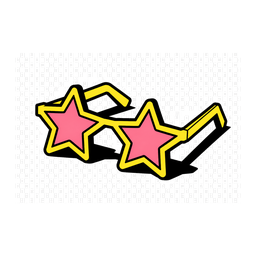
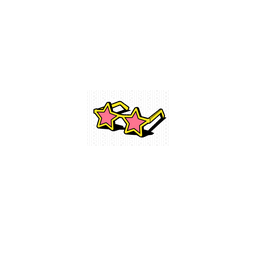
fix(schleimi): re-register Neo hat/extra overlays + drop unusable extras (#94)
- Overwrite slot_hat__/slot_extra__ with crown/mid-face registration
- Remove extra_confetti + extra_glitch_aura (catalog, manifest, assets)
- Drop mix-blend-multiply on hat/extra layers

Changed region(s): [[0.125, 0.3125, 0.9062, 0.7188]]

diff --git a/src/components/schleimi-preview.tsx b/src/components/schleimi-preview.tsx
@@ -67,12 +67,10 @@ function LayerImage({
   src,
   size,
   fallback,
-  blend,
 }: {
   src: string;
   size: number;
   fallback: ReactNode;
-  blend?: boolean;
 }) {
   const [failed, setFailed] = useState(false);
   if (failed) return <>{fallback}</>;
@@ -84,7 +82,7 @@ function LayerImage({
       width={size}
       height={size}
       draggable={false}
-      className={`absolute inset-0 h-full w-full object-contain ${blend ? "mix-blend-multiply" : ""}`}
+      className="absolute inset-0 h-full w-full object-contain"
       onError={() => setFailed(true)}
     />
   );
@@ -136,7 +134,7 @@ export function SchleimiPreview({
           <LayerImage
             src={extra.asset_path}
             size={size}
-            blend
+           
             fallback={
               <ExtraPlaceholder color={RARITY_COLOR[extra.rarity]} size={size} />
             }
@@ -148,7 +146,7 @@ export function SchleimiPreview({
           <LayerImage
             src={hat.asset_path}
             size={size}
-            blend
+           
             fallback={<HatPlaceholder color={RARITY_COLOR[hat.rarity]} size={size} />}
           />
         </div>
@@ -186,7 +184,7 @@ export function CosmeticTileArt({
         background: RARITY_SOFT[item.rarity],
       }}
     >
-      <LayerImage src={item.asset_path} size={size} fallback={fallback} blend={item.slot === "hat" || item.slot === "extra"} />
+      <LayerImage src={item.asset_path} size={size} fallback={fallback} />
     </div>
   );
 }

diff --git a/src/lib/schleimi-catalog.ts b/src/lib/schleimi-catalog.ts
@@ -132,10 +132,8 @@ export const SCHLEIMI_ITEMS: readonly SchleimiCatalogItem[] = [
   item("extra", "gewoehnlich", "plaster", "Pflaster", 650),
   item("extra", "gewoehnlich", "bowtie", "Fliege", 660),
   item("extra", "selten", "star_shades", "Sternenbrille", 670),
-  item("extra", "selten", "confetti", "Konfetti-Wolke", 680),
   item("extra", "selten", "mustache", "Schnauzer", 690),
   item("extra", "legendaer", "gold_shades", "Goldbrille", 700),
-  item("extra", "legendaer", "glitch_aura", "Glitch-Aura", 710),
 ];
 
 export const TINT_FILL: Record<string, string> = {
